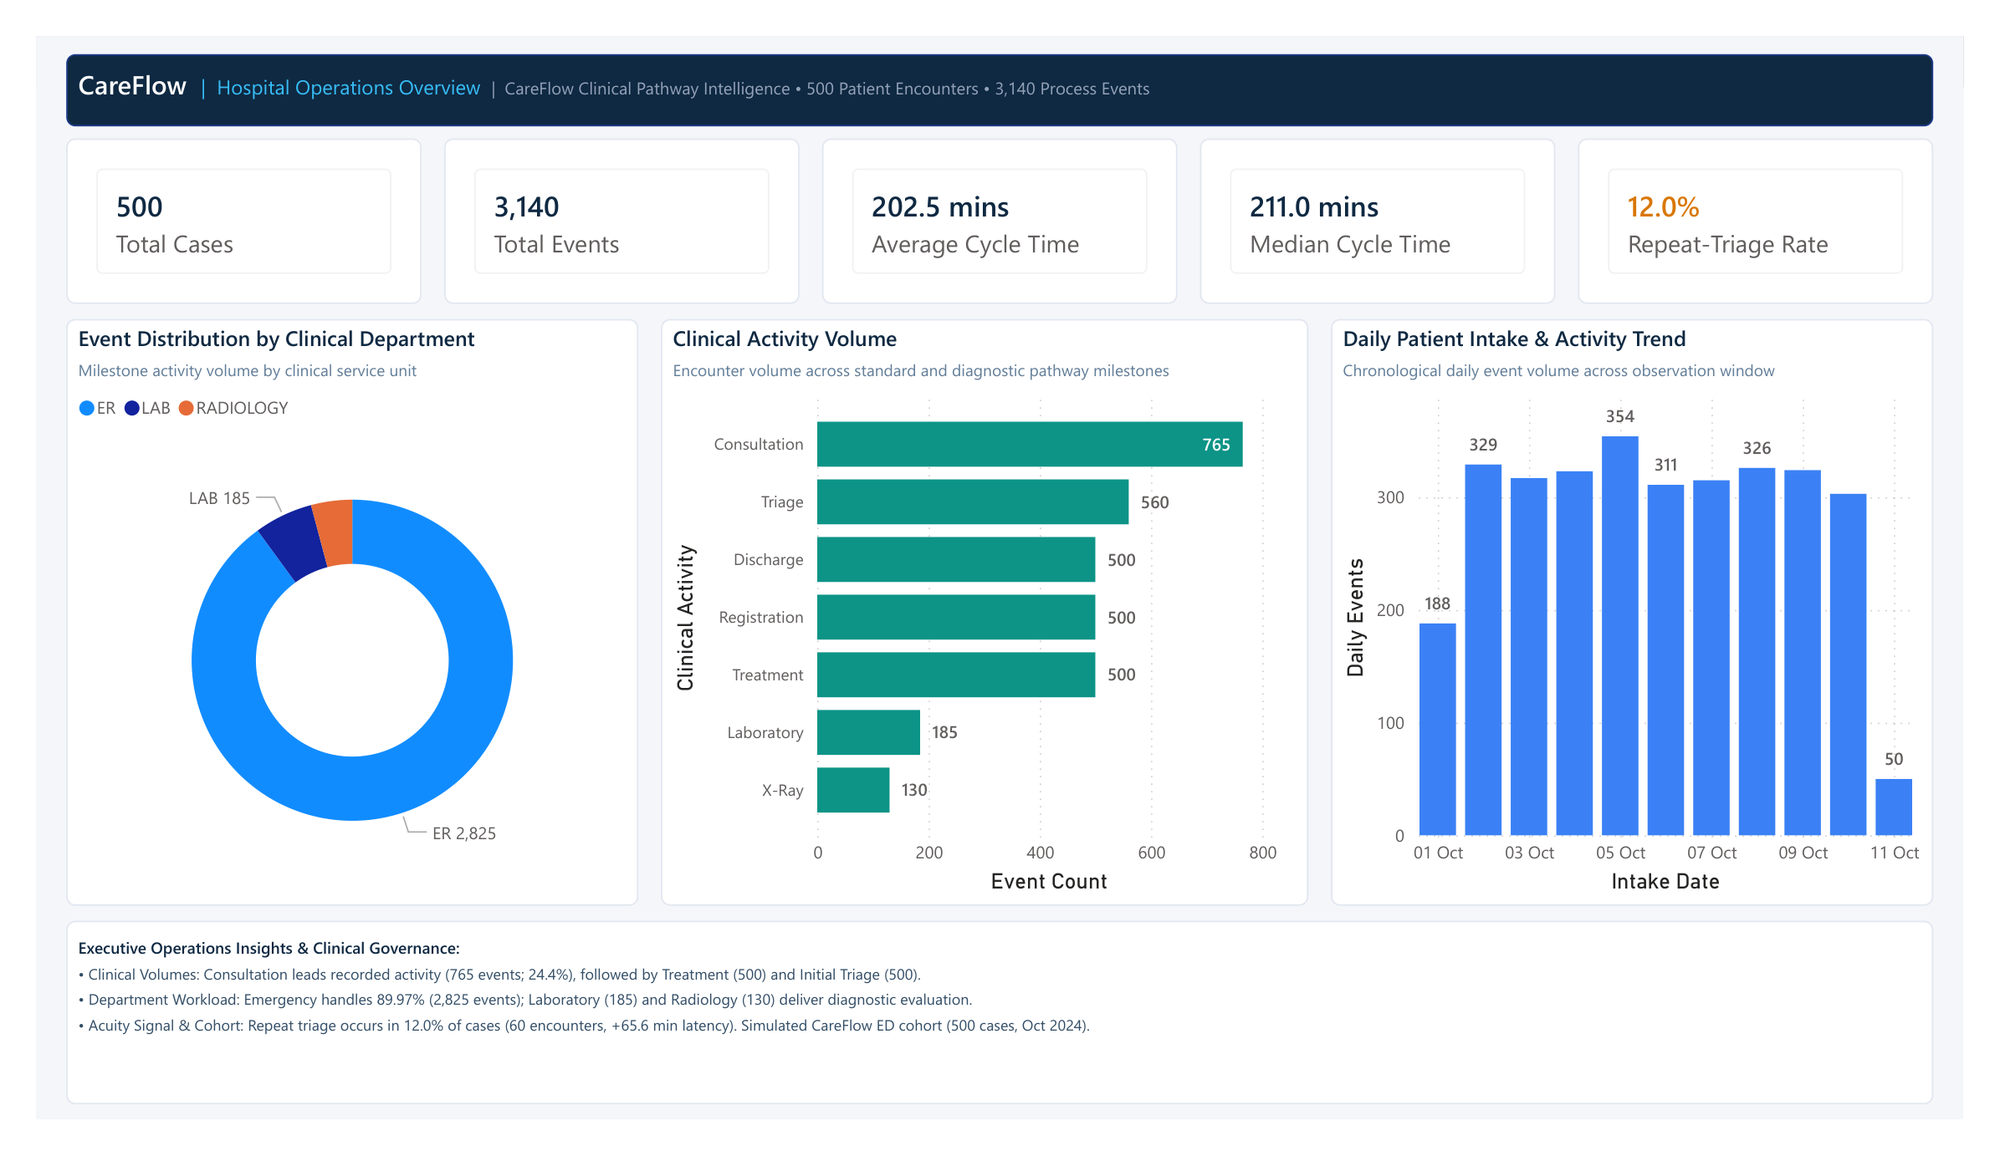
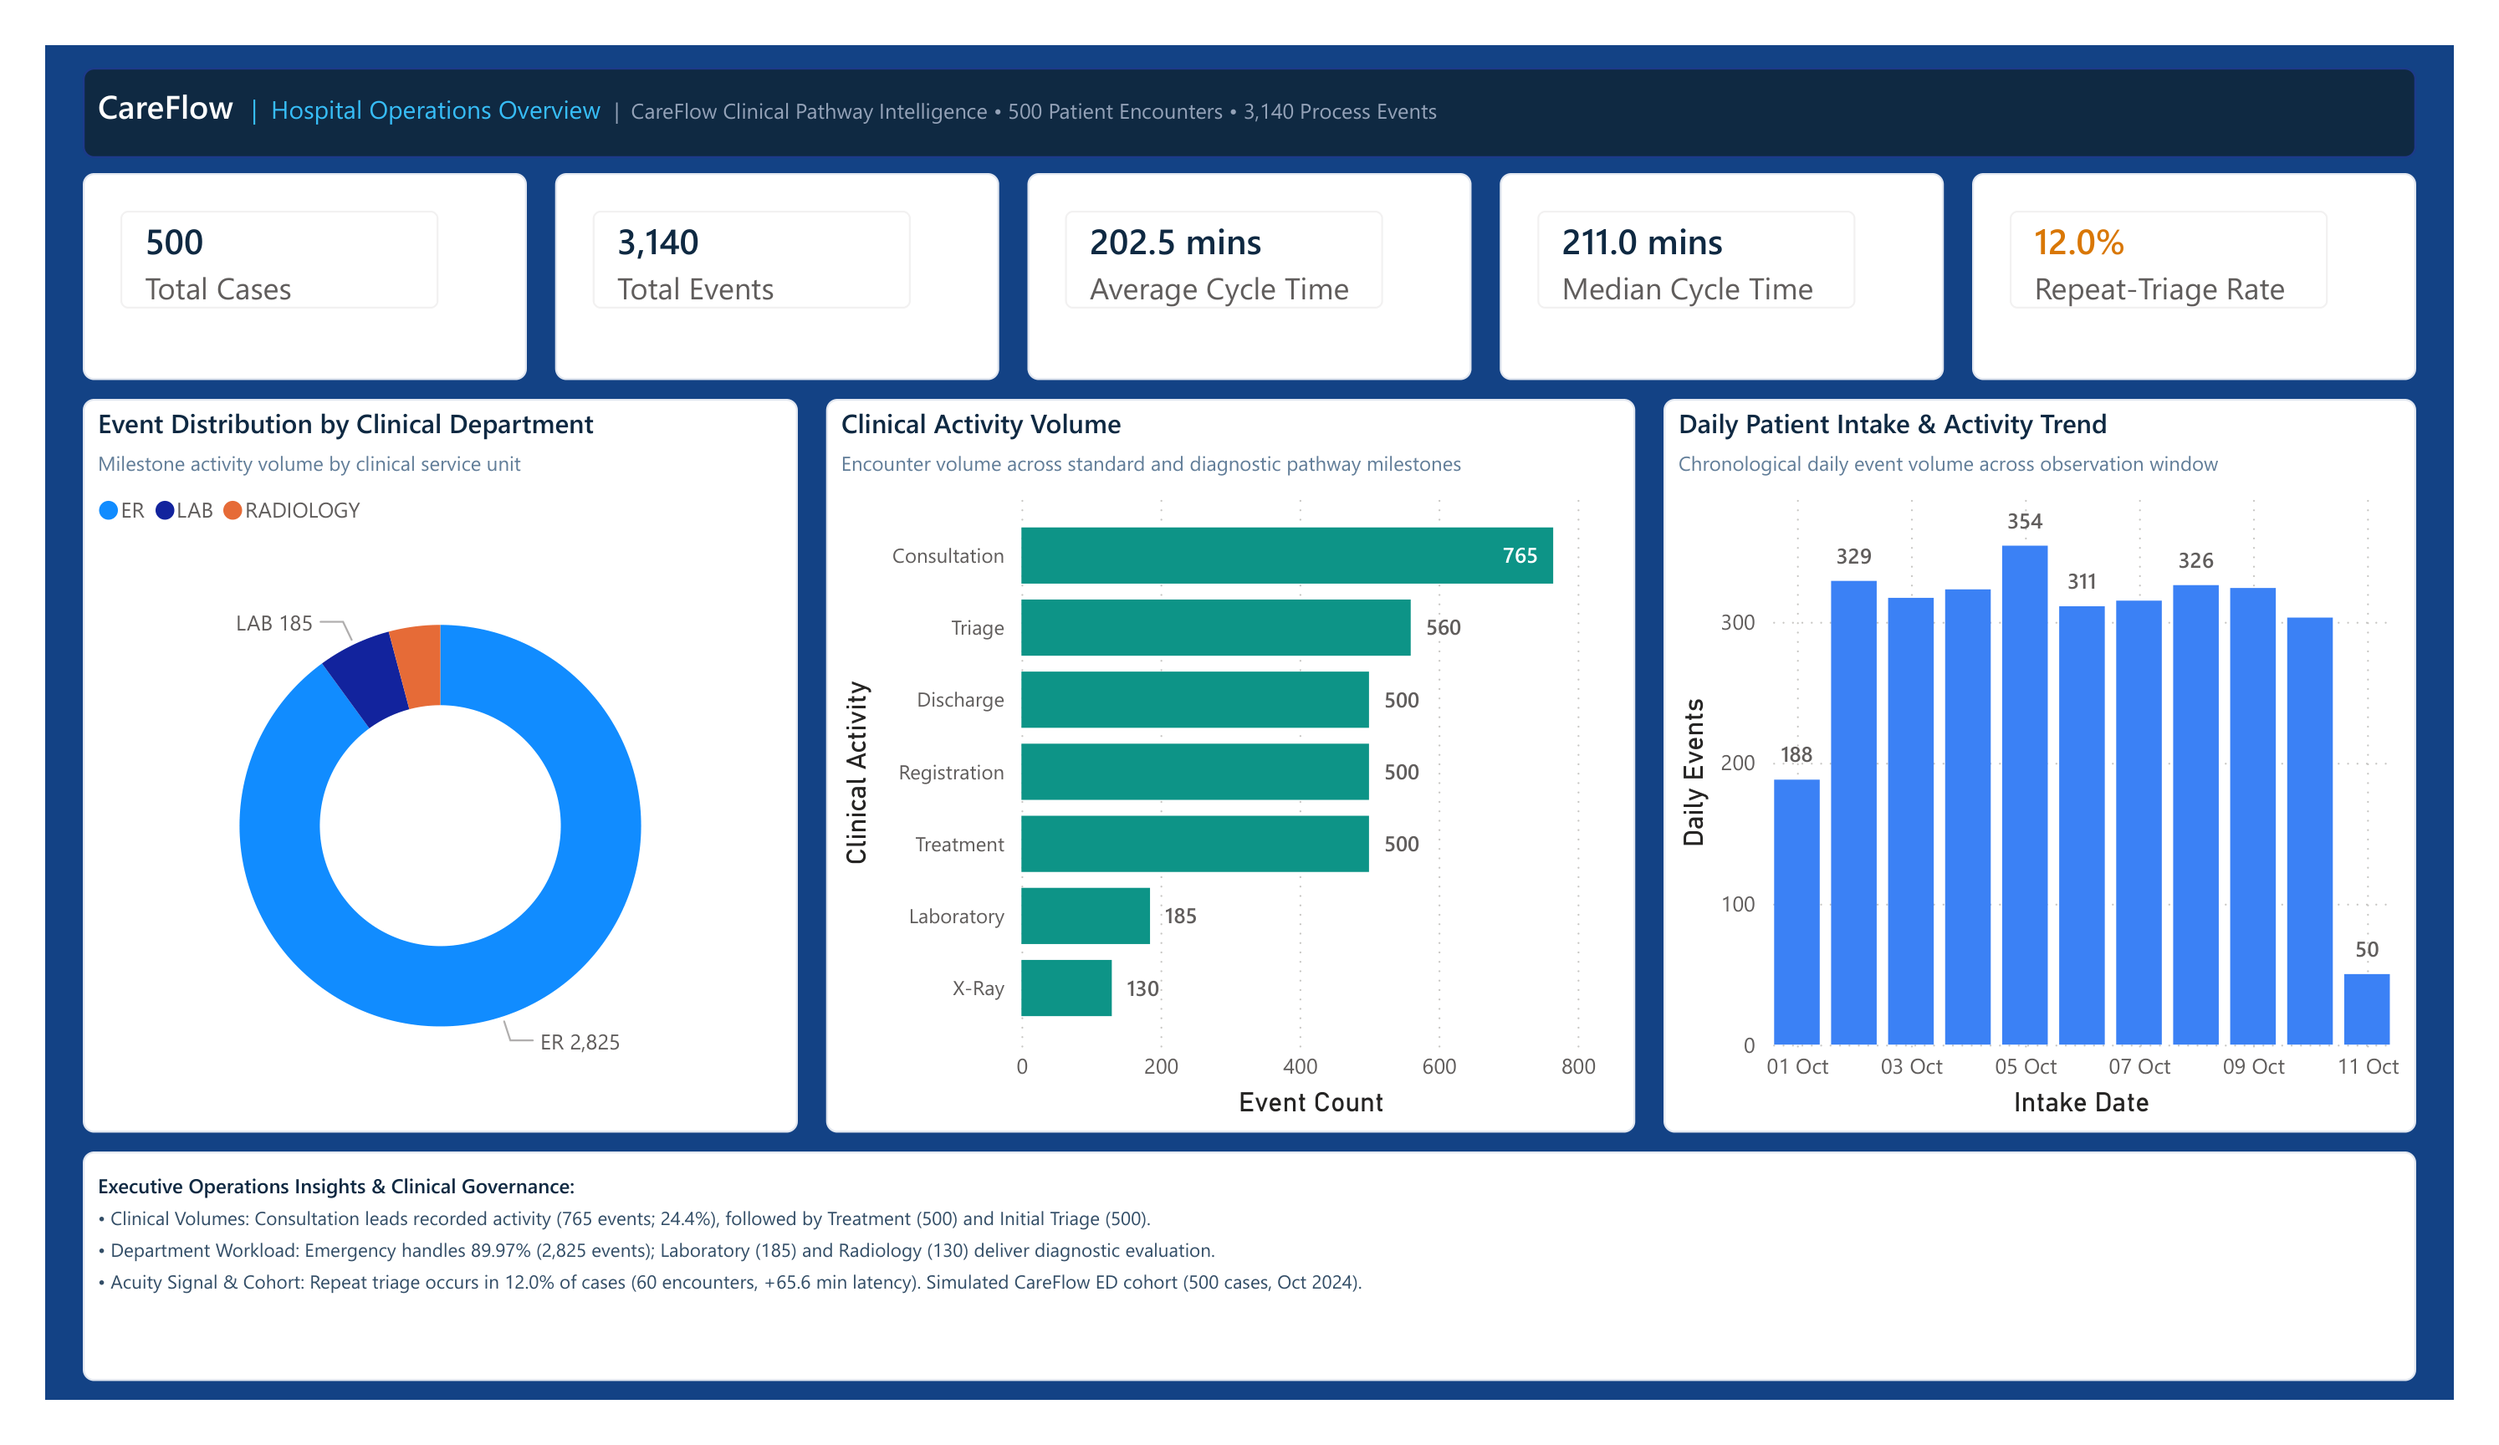
chore: refresh final dashboard presentation

diff --git a/README.md b/README.md
@@ -142,7 +142,7 @@ flowchart TD
 
 The dashboard is built in the developer-friendly **Power BI Project (`.pbip`)** format. It includes version-controlled visual layouts in `report.json`, semantic model definitions in `model.bim` (TMSL JSON format), and custom styling (`CY26SU05.json`).
 
-> **Note on Dashboard Screenshots:** The screenshots below were exported from the finalized 3-page report in Power BI Desktop on November 6, 2026. The current Power BI Desktop report was exported to PDF and each page was rendered as a high-resolution PNG (2391 × 1383 pixels). Open `CareFlow_Dashboard.pbip` in Power BI Desktop to explore the interactive report.
+> **Note on Dashboard Screenshots:** The screenshots below were exported from the finalized 3-page report in Power BI Desktop on November 14, 2026. The current Power BI Desktop report was exported to PDF and each page was rendered as a high-resolution PNG (2988 × 1728 pixels). Open `CareFlow_Dashboard.pbip` in Power BI Desktop to explore the interactive report.
 
 ### Page 1: Hospital Operations Overview
 Presents high-level encounter volumes, clinical activity distributions, encounter duration KPIs, and key operations takeaways.
@@ -304,7 +304,7 @@ careflow-clinical-pathway/
 │   ├── pathway_improvement_report.md      # Simulation methodology & governance report
 │   ├── pathway_improvement_summary.json   # Machine-readable improvement statistics
 │   ├── process_mining_summary.json        # End-to-end cohort summary
-│   └── dashboard_renders/                 # 2391x1383 dashboard screenshot renders
+│   └── dashboard_renders/                 # 2988x1728 dashboard screenshot renders
 │       ├── after_page1_hospital_overview.png
 │       ├── after_page2_patient_flow.png
 │       └── after_page3_transition_analysis.png
